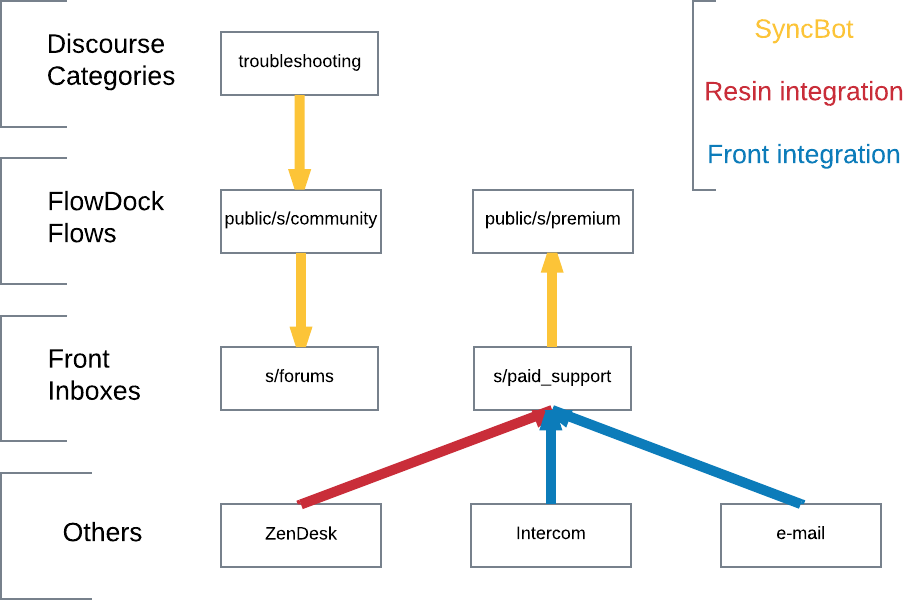
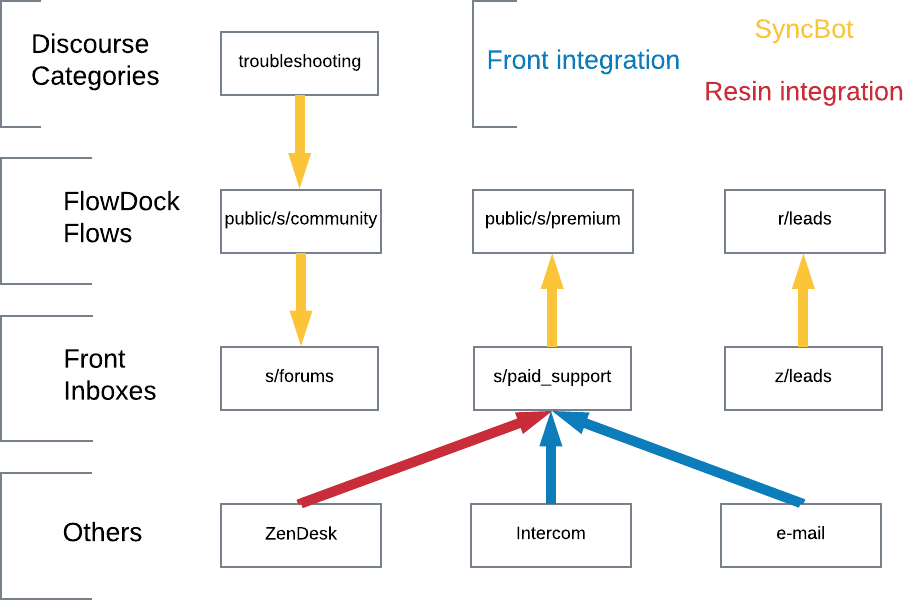
SyncBot: Add and document leads inbox
* Add the leads inbox/flow to the sync maps
* Document the process to do this

Change-Type: patch

diff --git a/docresources/SyncBot/syncbot-readme.md b/docresources/SyncBot/syncbot-readme.md
@@ -23,6 +23,7 @@ A little Bot, using the ProcBot framework, that links communication services
 * Flows
   * Forums:Troubleshooting - Flowdock:public/s/community - Front:support/community
   * Flowdock:public/s/premium - Front:support/premium
+  * Front:z/leads - Flowdock:r/leads
 * Threads
   * A new thread in a source flow will become a new linked thread in a destination flow
 * Comments
@@ -240,6 +241,30 @@ Flowdock will search the 1-1 history of a user for a phrase that matches "My
 Errors, where possible, are reported in the originating thread as whispers.
 
 ## How would I configure SyncBot?
+
+### Setting up a Front inbox for SyncBot
+
+1) You will need the help of a Front admin to perform these steps
+1) Get the Front API token from Settings > Plugins and API > API
+1) Fire a request similar to the following to acquire a list of inboxes
+	```
+	GET https://api2.frontapp.com/inboxes
+	Accept: application/json
+	Authorization: Bearer a.b.c
+	```
+1) Find the ID of the inbox you care about, should be in the format `inb_abc`.
+1) Create a custom channel for the inbox in Settings > Inboxes > ...inbox... > Add a Channel
+	```
+	Enable undo send = false
+	Auto-assign on reply = false
+	API endpoints outgoing = https://your.syncbot.url/front-dev-null
+	```
+1) Note the channel id, `cha_abc` from incoming url in API Endpoints
+1) Adjust the following values in configs/yml
+	* `SYNCBOT_MAPPINGS`
+		* Add the flow mapping to the array
+	* `SYNCBOT_LISTENER_CONSTRUCTORS.front.channelPerInbox`
+		* Add the map of inbox to channel to the array
 
 ### Example .sh file
 
